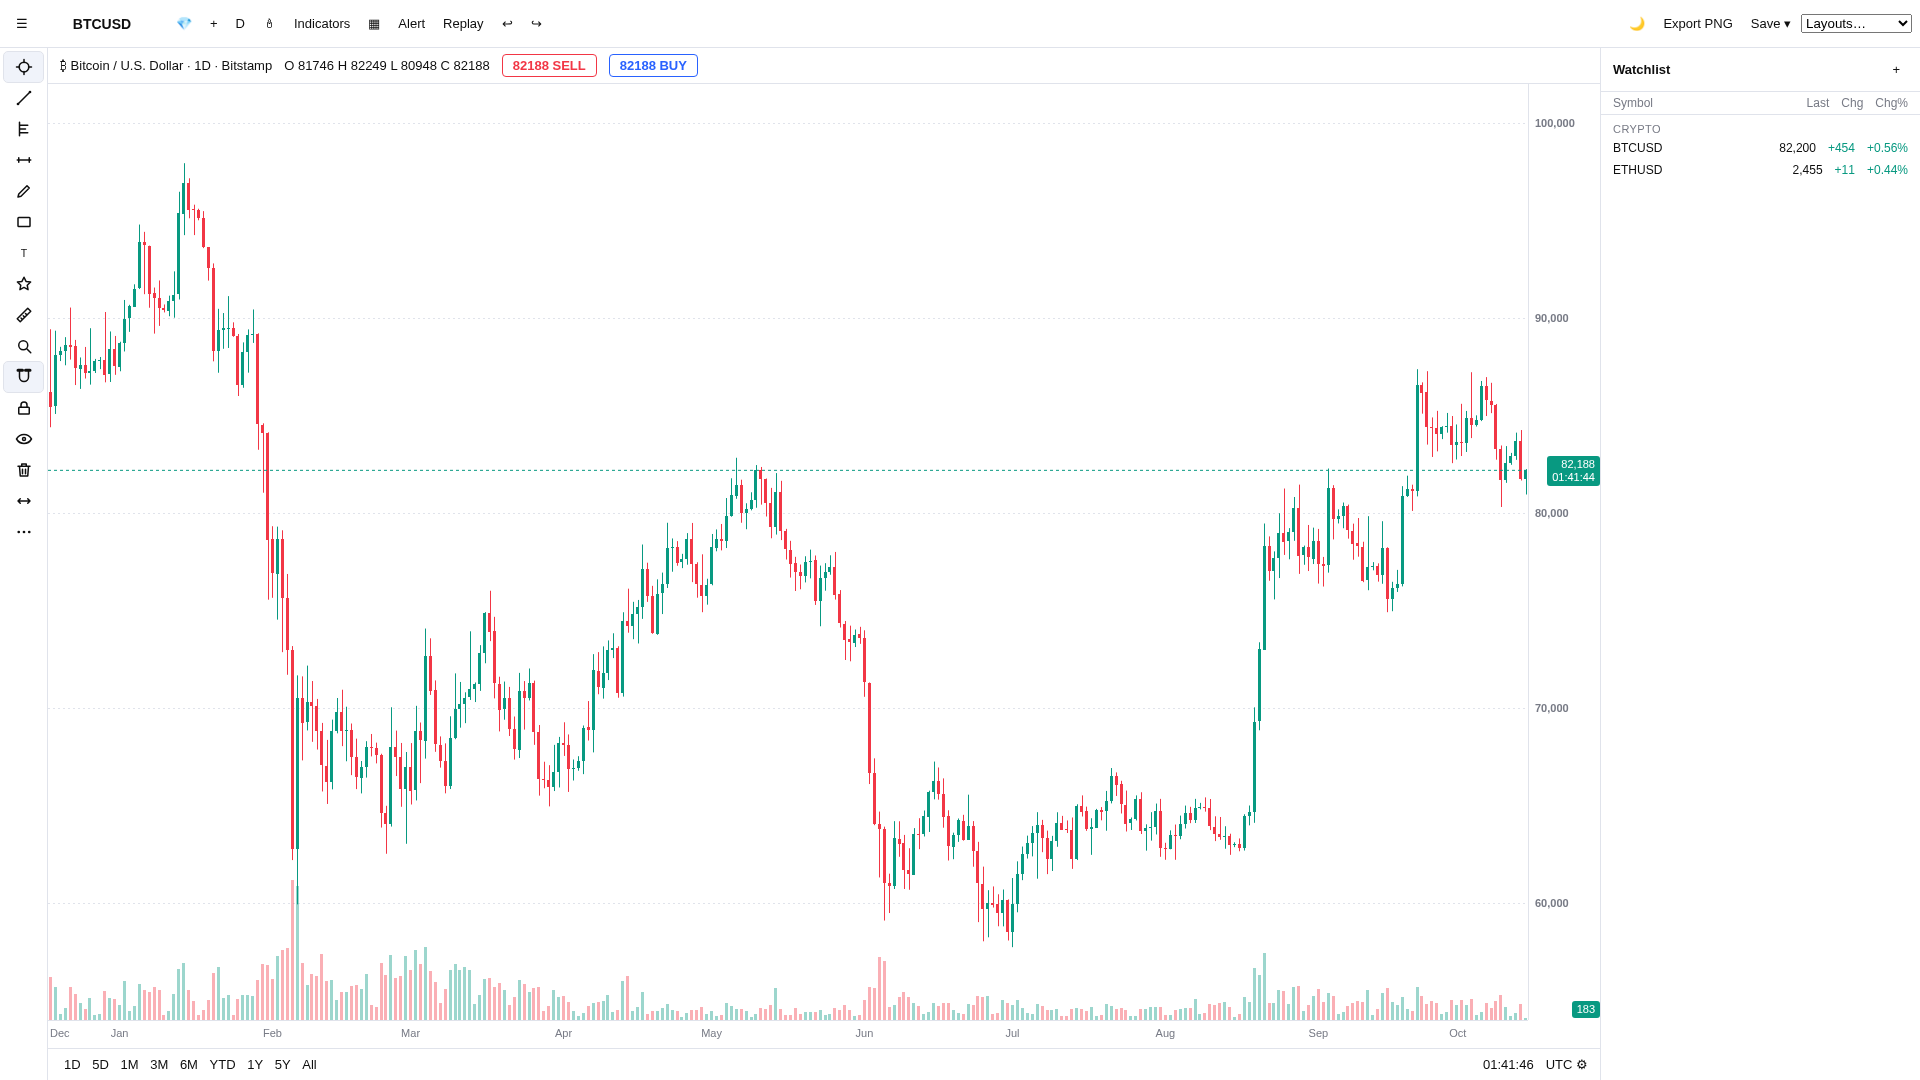
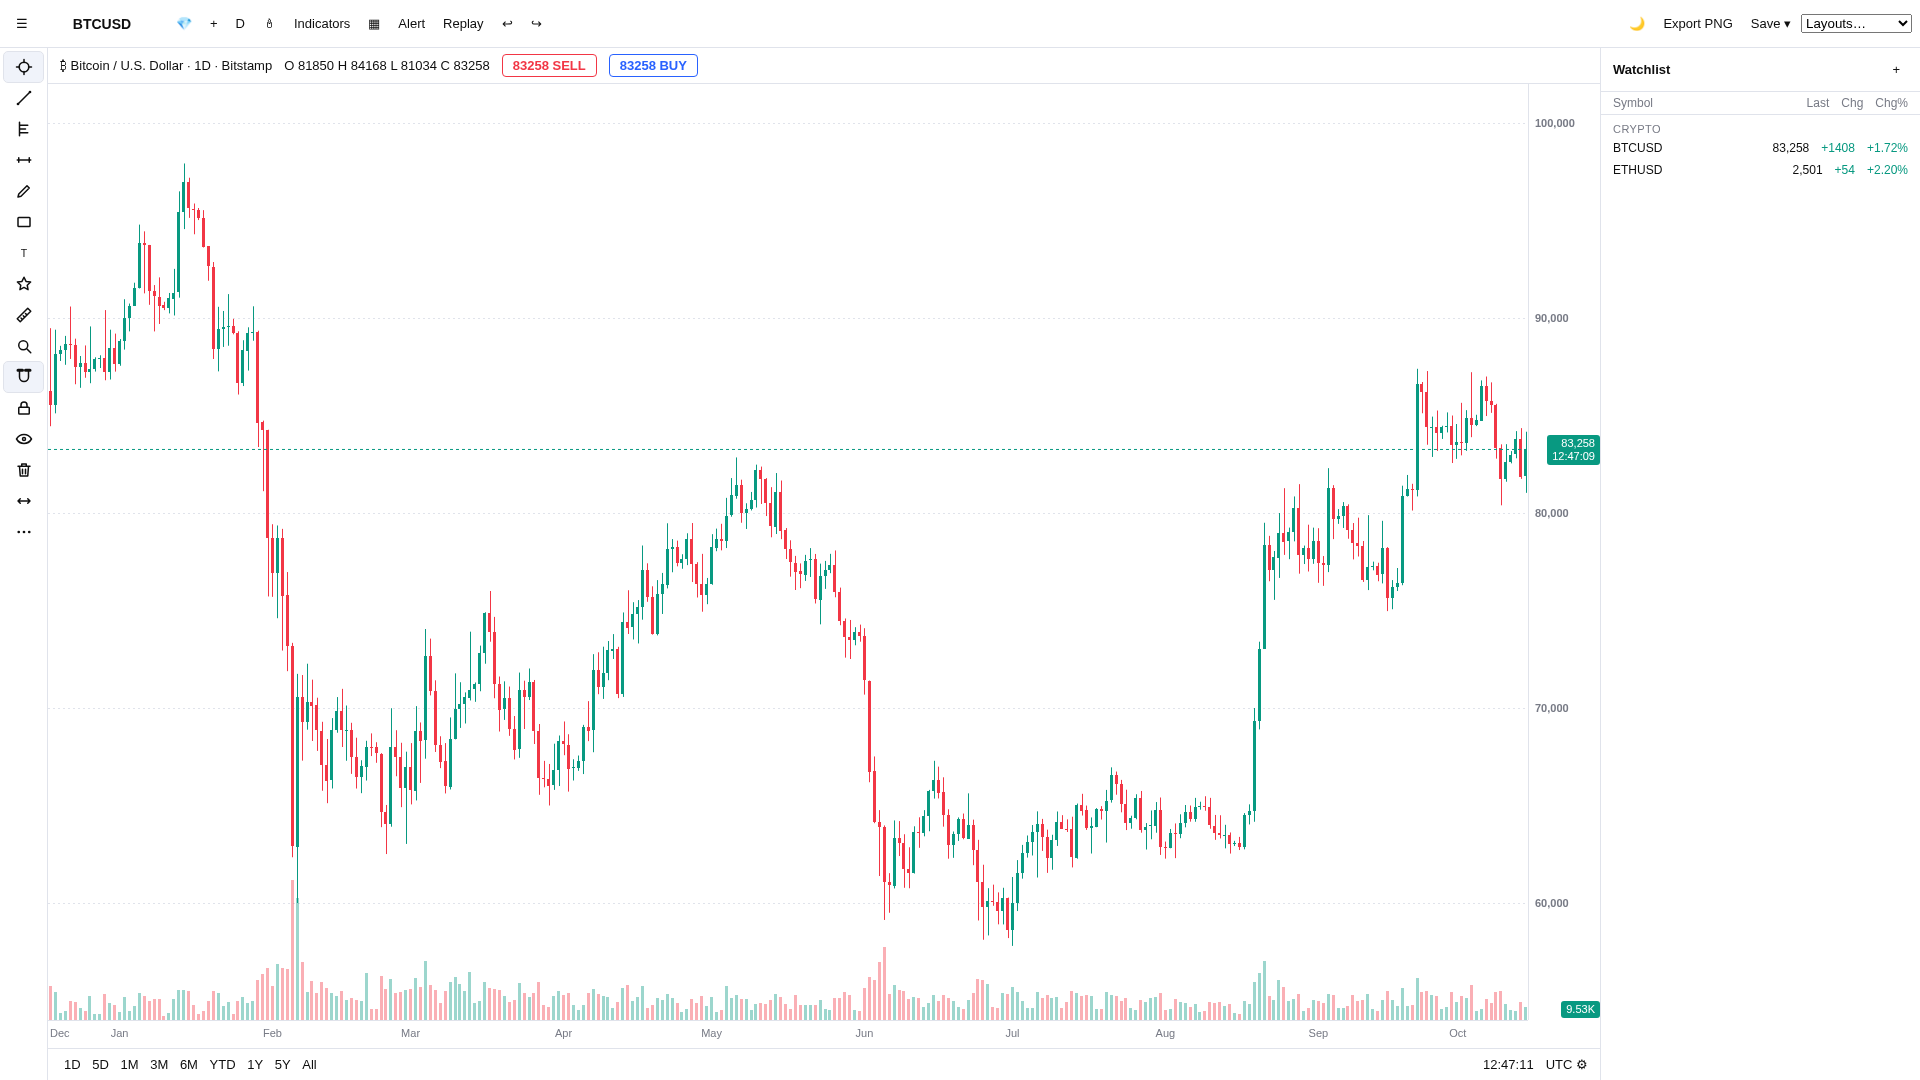
feat: CCXT-browser data terminal — live Binance, embedded-first boot, docs

diff --git a/js/ui.js b/js/ui.js
@@ -1,5 +1,5 @@
 // js/ui.js
-import { fetchOHLCV } from './data.js';
+import { fetchOHLCV, wasLive, normalizeOHLCV } from './data.js';
 import { renderBase, PAL, compositeToDataURL, visibleRows, sliceOffset, replayCount, xForRowTime, timeForX } from './chart.js';
 import { renderPriceAxis, renderTimeAxis } from './axes.js';
 import { hitTest, drawCrosshair, drawDrawings, drawAlerts } from './overlay.js';
@@ -249,8 +249,7 @@ export function initUI(v) {
     if (!(price.max > price.min)) price.max = price.min + 1000;
     return { visible: { from: list[0].t, to: list[list.length - 1].t }, price };
   };
-  fetchOHLCV({ symbol: v.get().symbol || 'BTC/USD', timeframe: v.get().interval || '1d' }).then((data) => {
-    if (Array.isArray(data) && data.length) rows = data;
+  const paintBootRows = () => {
     if (!rows.length) return;
     fitCanvases();
     const s = v.get();
@@ -268,7 +267,20 @@ export function initUI(v) {
     const cur = v.get();
     if (cur.visible && !fullVisible) fullVisible = { ...cur.visible };
     if (cur.price && !fullPrice) fullPrice = { ...cur.price };
-  }).catch(() => { /* offline + fallback failed — keep empty, no unhandled rejection */ });
+  };
+  // Embedded-first boot: paint local fallback immediately (never awaits
+  // whenCcxt), then upgrade to live rows only when the fetch actually
+  // returned live exchange data (wasLive guard prevents mislabeling
+  // embedded BTC rows as another symbol).
+  fetch('./data/btcusd-1d.json').then((r) => r.json()).then((j) => {
+    const fb = normalizeOHLCV(j);
+    if (fb.length && !rows.length) { rows = fb; paintBootRows(); }
+  }).catch(() => { /* embedded missing — live upgrade below still tries */ }).finally(() => {
+    fetchOHLCV({ symbol: v.get().symbol || 'BTC/USD', timeframe: v.get().interval || '1d' }).then((data) => {
+      if (!wasLive()) return;
+      if (Array.isArray(data) && data.length) { rows = data; paintBootRows(); }
+    }).catch(() => { /* offline + fallback failed — keep embedded/empty, no unhandled rejection */ });
+  });
   let resizeQueued = false;
   window.addEventListener('resize', () => {
     if (resizeQueued) return;
@@ -544,7 +556,7 @@ export function initUI(v) {
   // failure the old rows/label/scale are kept and an error toast is shown.
   const reload = async (symbol, ccxtTf, nextTf) => {
     try {
-      const data = await fetchOHLCV({ symbol, timeframe: ccxtTf, limit: 300 });
+      const data = await fetchOHLCV({ symbol, timeframe: ccxtTf, limit: 300, liveOnly: true });
       if (!Array.isArray(data) || !data.length) throw new Error('empty');
       rows = data;
       resetScale();

diff --git a/js/data.js b/js/data.js
@@ -17,21 +17,26 @@ export function resolveMarket(symbol) {
 }
 
 let ccxtReady = null;
+let ccxtSettled = false;
 export function whenCcxt(timeoutMs = 15000) {
-  if (typeof globalThis.ccxt !== 'undefined') return Promise.resolve(globalThis.ccxt);
+  if (ccxtSettled) return Promise.resolve(globalThis.ccxt);
+  if (typeof globalThis.ccxt !== 'undefined') { ccxtSettled = true; return Promise.resolve(globalThis.ccxt); }
   if (!ccxtReady) {
     ccxtReady = new Promise((resolve) => {
       if (typeof document !== 'undefined') {
         let done = false;
-        const settle = (v) => { if (!done) { done = true; resolve(v); } };
+        const settle = (v) => { if (!done) { done = true; ccxtSettled = true; resolve(v); } };
         document.addEventListener('ccxt-ready', () => settle(globalThis.ccxt), { once: true });
         setTimeout(() => settle(undefined), timeoutMs);
       }
-      else resolve(undefined);
+      else { ccxtSettled = true; resolve(undefined); }
     });
   }
   return ccxtReady;
 }
+
+let lastWasLive = false;
+export function wasLive() { return lastWasLive; }
 
 /**
  * Fetch OHLCV via browser CCXT, falling back to embedded BTC-daily JSON.
@@ -40,17 +45,19 @@ export function whenCcxt(timeoutMs = 15000) {
  *   fallback and rethrow on failure (choice: throw, so callers can
  *   distinguish offline from cached data; e.g. watchlist renders em-dash).
  */
-export async function fetchOHLCV({ symbol = 'BTC/USD', timeframe = '1d', limit = 300, liveOnly = false } = {}) {
+export async function fetchOHLCV({ symbol = 'BTC/USD', timeframe = '1d', limit = 300, liveOnly = false, timeoutMs = 15000 } = {}) {
   const { exchange, ccxtSymbol } = resolveMarket(symbol);
   try {
-    const cc = typeof globalThis.ccxt !== 'undefined' ? globalThis.ccxt : await whenCcxt();
+    const cc = typeof globalThis.ccxt !== 'undefined' ? globalThis.ccxt : await whenCcxt(timeoutMs);
     if (!cc || typeof cc[exchange] !== 'function') throw new Error('ccxt unavailable');
     const ex = new cc[exchange]({ enableRateLimit: true });
     const raw = await ex.fetchOHLCV(ccxtSymbol, timeframe, undefined, Math.min(limit, 1000));
     const rows = normalizeOHLCV(raw);
     if (!rows.length) throw new Error('empty');
+    lastWasLive = true;
     return rows;
   } catch (e) {
+    lastWasLive = false;
     if (liveOnly) throw e;
     const fb = await fetch('./data/btcusd-1d.json').then(x => x.json());
     console.warn('Live data unavailable — showing cached', e?.message ?? e);

diff --git a/docs/superpowers/specs/2026-10-12-tradingview-clone-design.md b/docs/superpowers/specs/2026-10-12-tradingview-clone-design.md
@@ -1,13 +1,13 @@
 # TradingView Desktop Clone — Design Spec (2026-10-12)
 
 Reference: `Screenshot from 2026-10-12 18-38-59.png` (BTCUSD 1D Bitstamp, light theme).
-Stack: vanilla HTML/JS/CSS + Canvas, Node + CCXT proxy. Responsive desktop, light + dark.
+Stack: vanilla HTML/JS/CSS + Canvas, CCXT browser bundle (no backend). Responsive desktop, light + dark.
 
 ## 1. Architecture
 - Frontend: `index.html`, `styles.css`, `js/` modules. No frameworks, no chart libs.
 - `js/viewstate.js`: single truth `{ symbol, timeframe, visible {from,to}, price {min,max}, theme, drawings[], alerts[], replayIndex }`. All UI mutations go through ViewState → `requestRender()`.
 - Two stacked canvases in `.chart-area`: `#base` (grid, candles, volume, axes decorations) + `#overlay` (crosshair, drawing previews, alert lines). DevicePixelRatio scaling.
-- Backend: `server/proxy.js` — Node http, `ccxt.bitstamp`, `GET /api/ohlcv?symbol=BTC/USD&timeframe=1d&limit=300`, 60s in-memory cache + JSON file cache. Serves `data/btcusd-1d.json` fallback.
+- Backend: none. `js/data.js` drives global `ccxt` (pinned `ccxt@4` browser bundle via jsDelivr `async` script tag); `resolveMarket` routing (`exchange:SYM` prefix or Binance default `BTC/USD`→`BTC/USDT`); `whenCcxt` 15s wait on `ccxt-ready`; `fetchOHLCV` with `enableRateLimit`. Embedded `data/btcusd-1d.json` is the first-paint fallback.
 - `data/btcusd-1d.json`: ~150 daily candles traced from screenshot for pixel-identical first paint offline.
 
 ## 2. Components
@@ -17,7 +17,7 @@ Stack: vanilla HTML/JS/CSS + Canvas, Node + CCXT proxy. Responsive desktop, ligh
 - Isolation: each component exposes `render(state)`; only imports ViewState. No direct canvas writes from event handlers.
 
 ## 3. Data Flow
-1. Load: `data.js` fetches `/api/ohlcv` → on fail uses embedded JSON. Shows toast when fallback active.
+1. Load: paint embedded `data/btcusd-1d.json` instantly → upgrade to live via `fetchOHLCV` when the bundle is ready → reload-path failures keep last good data + toast. Watchlist uses `liveOnly` so offline rows keep em-dash instead of cached BTC data.
 2. Normalize to `{t,o,h,l,c,v}` sorted ascending.
 3. ViewState computes visible window (default: May→mid-Oct) + auto price min/max with 8% padding.
 4. `chart.js` draws: dotted grid (`#e0e3eb`, 1px dotted), candles (up `#089981`, down `#F23645`, body 60% of step, wick 1px), volume bars (same color, 40% alpha, bottom 15% pane), last-price dotted red line + right-axis tag `82473` + time `01:21:01`, volume tag `1.32K`.
@@ -31,20 +31,21 @@ Stack: vanilla HTML/JS/CSS + Canvas, Node + CCXT proxy. Responsive desktop, ligh
 - Drawings: trend, horizontal, fib retracement, text. Stored in time/price coords, magnet snaps to OHLC within 8px, selection handles, Delete key, undo/redo stack (50), localStorage `tv-clone-layout-v1`.
 - Indicators dialog: SMA(20/50), EMA, RSI(14), Volume toggle. Computed in `indicators.js`, drawn on base canvas.
 - Replay: enters mode hiding future bars, `<-`/`->` step, play speed, exit restores full range.
-- TopBar: symbol search switches `BTC/USD|ETH/USD|...` via proxy, timeframe D/1W/1H re-fetches, chart-type candles/bars/line, Save dropdown saves named layouts.
+- TopBar: symbol search switches `BTC/USD|ETH/USD|...` via browser CCXT, timeframe D/1W/1H re-fetches, chart-type candles/bars/line, Save dropdown saves named layouts.
 - Themes: `[data-theme=light|dark]` CSS vars + canvas palette swap (`bg #fff→#131722`, grid `#e0e3eb→#2a2e39`, text `#131722→#d1d4dc`). Toggle persisted, no flash (inline `data-theme` script in `<head>`).
 - Extras beyond original: multi-layout save, PNG export (`canvas.toDataURL` composite), keyboard shortcuts.
 
 ## 5. Error Handling
-- Proxy down/CORS → fallback JSON + non-blocking toast `Live data unavailable — showing cached`.
-- CCXT rate-limit → serve stale cache with `X-Cache: STALE`, exponential backoff retry 5s/15s/60s.
+- Bundle blocked/offline → embedded fallback + warning `Live data unavailable — showing cached`; symbol/timeframe/range reload failures keep last good data + toast `Live data unavailable — keeping <symbol>`.
+- Exchange rejects symbol → keep last good data + toast `Live data unavailable — keeping <symbol>`.
+- CCXT rate-limit → `enableRateLimit` on the exchange instance + retry on next interaction (reload / range / watchlist refresh).
 - Invalid symbol/timeframe → header shows error state, chart keeps last good data.
 - Empty/malformed OHLCV → validate `h>=l, h>=o,c>=l`; drop bad rows, log warning.
 
 ## 6. Testing / Definition of Done
 - Visual: side-by-side at 1920px, layout drift <2px, candle colors ΔE <3 vs screenshot eyedropper.
-- Functional: pan/zoom 60fps (measure via rAF), crosshair OHLC matches hovered candle, drawings persist after reload, light/dark toggle without flash, proxy returns 300 rows, fallback works with server stopped.
-- No console errors, vanilla only (audit: no `import` of React/Vue/chart libs; `ccxt` only in `server/`).
+- Functional: pan/zoom 60fps (measure via rAF), crosshair OHLC matches hovered candle, drawings persist after reload, light/dark toggle without flash, `fetchOHLCV` returns live rows, fallback paints with bundle blocked.
+- No console errors, vanilla only (audit: no `import` of React/Vue/chart libs; `ccxt` only via the pinned CDN script tag — no npm dep, no `server/`).
 
 ## 7. Phases
-1. Core chart + axes + proxy + fallback. 2. Drawings + alerts + persistence. 3. Indicators + replay + symbol/timeframe switching. 4. Themes + extras + polish to gold-cup.
+1. Core chart + axes + browser-CCXT data + fallback. 2. Drawings + alerts + persistence. 3. Indicators + replay + symbol/timeframe switching. 4. Themes + extras + polish to gold-cup.

diff --git a/AGENTS.md b/AGENTS.md
@@ -9,31 +9,31 @@ Reference: `Screenshot from 2026-10-12 18-38-59.png` in this directory. That ima
 1. **Pixel fidelity:** Top bar, left drawing rail (15 icons), OHLC header + SELL/BUY pills, candle chart (May–Oct), volume, right price axis (56k–90k), bottom time axis + range footer (1D–All), UTC clock, gear, TradingView watermark — match fonts, spacing, colors, dotted grid.
 2. **Pure canvas engine:** Two stacked `<canvas>` (base: grid/candles/volume, overlay: crosshair/drawings). No chart libs, no frameworks. Vanilla JS modules only.
 3. **Full functional (gold cup, no quirks):** Pan/zoom, crosshair + tooltip, price/time alerts, drawings (trend/horizontal/fib/text) with magnet snap + undo/redo, indicators (SMA/EMA/RSI), replay mode, symbol/timeframe/chart-type switching, layout save to localStorage.
-4. **Data via CCXT:** `server/proxy.js` (Node + `ccxt` npm) fetches Bitstamp BTC/USD 1D OHLCV, caches 60s, serves `/api/ohlcv`. Frontend falls back to embedded `data/btcusd-1d.json` (traced from screenshot) for offline pixel-identical first paint.
+4. **Data via CCXT browser bundle:** pinned `<script src="https://cdn.jsdelivr.net/npm/ccxt@4/dist/ccxt.browser.js" async>` exposes global `ccxt` (Binance default: `BTC/USD`→`BTC/USDT`). `js/data.js` (`resolveMarket` exchange routing, `whenCcxt` 15s wait on `ccxt-ready`, `fetchOHLCV` with `enableRateLimit`, `liveOnly` flag for watchlist) fetches live public OHLCV. Embedded `data/btcusd-1d.json` paints first, upgrades to live when the bundle is ready (reload-path failures keep last good data + toast).
 5. **Themes + extras:** Light (default, matches screenshot) + dark toggle via CSS vars + canvas palette swap. Extras beyond original: multi-layout save, PNG export.
 6. **Responsive desktop:** Fluid layout matching ~1980px reference, reflows to smaller desktop windows. Mobile deferred.
 
 ## Scope / Non-Goals V1
-- In: chart core, axes, drawings, indicators dialog, alert lines, replay, themes, proxy.
+- In: chart core, axes, drawings, indicators dialog, alert lines, replay, themes, browser-CCXT live data.
 - Out: real brokerage execution, social/community, Pine Script editor, mobile layout.
+- Aims: crypto-only data terminal (GET-only public data; no trading desk, no secrets). `server/` deleted — no backend, no npm `ccxt` dep. Stocks/forex deferred pending a CORS-open keyless or BYOK source.
 
 ## Architecture (Approved Option A)
 - `index.html` — shell: topbar / left-rail / chart-area / axes / footer.
 - `styles.css` — CSS vars `--bg`, `--grid`, `--up:#089981`, `--down:#F23645`, light/dark via `[data-theme]`.
 - `js/viewstate.js` — single truth: visible range, price scale, theme, drawings, alerts.
-- `js/chart.js` — base canvas render; `js/axes.js` — price/time axes; `js/overlay.js` — crosshair/drawings; `js/data.js` — fetch/cached/fallback; `js/drawings.js`, `js/indicators.js`, `js/ui.js` — toolbar wiring.
-- `server/proxy.js` — Node http + ccxt.bitstamp, `GET /api/ohlcv?symbol=BTC/USD&timeframe=1d&limit=300`.
-- `data/btcusd-1d.json` — embedded fallback.
+- `js/chart.js` — base canvas render; `js/axes.js` — price/time axes; `js/overlay.js` — crosshair/drawings; `js/data.js` — browser-CCXT driver (global `ccxt` bundle, `resolveMarket` routing, `whenCcxt`/`fetchOHLCV`); `js/drawings.js`, `js/indicators.js`, `js/ui.js` — toolbar wiring.
+- `data/btcusd-1d.json` — embedded fallback (first paint + offline).
 
 ## Conventions
-- Vanilla only: no React/Vue/Tailwind, no chart libs. `ccxt` allowed only in `server/`.
+- Vanilla only: no React/Vue/Tailwind, no chart libs. `ccxt` allowed only via the pinned CDN script tag (no npm dep, no server code).
 - Canvas text: `-apple-system, Segoe UI, Roboto` to match TradingView; 1px wicks, 60% candle body spacing.
 - All state mutations go through ViewState then `requestRender()`. No direct canvas writes from UI handlers.
 - Tooling scripts (if any) live in `tooling/` per global rules — no inline scripts.
 
 ## Verification (Definition of Done)
 - Side-by-side with reference PNG at 1920px: layout drift <2px, colors ΔE <3.
-- `node server/proxy.js` + open `index.html`: candles load from API, fallback works offline.
+- Open `index.html` via any static server (or `github.io`): candles paint from embedded JSON, then upgrade to live when the bundle is ready, with no console errors.
 - Pan/zoom at 60fps, crosshair + OHLC correct, drawings persist after reload, light/dark toggle without flash.
 - No console errors.
 
@@ -43,4 +43,4 @@ Reference: `Screenshot from 2026-10-12 18-38-59.png` in this directory. That ima
 
 ## Working Agreement
 - Brainstorm → spec → plan → implement in phases: 1) core chart, 2) drawings, 3) indicators/alerts/replay, 4) themes/polish.
-- Ask before adding deps beyond `ccxt`. Keep vanilla promise.
+- Ask before adding deps beyond the pinned `ccxt` CDN bundle. Keep vanilla promise.
